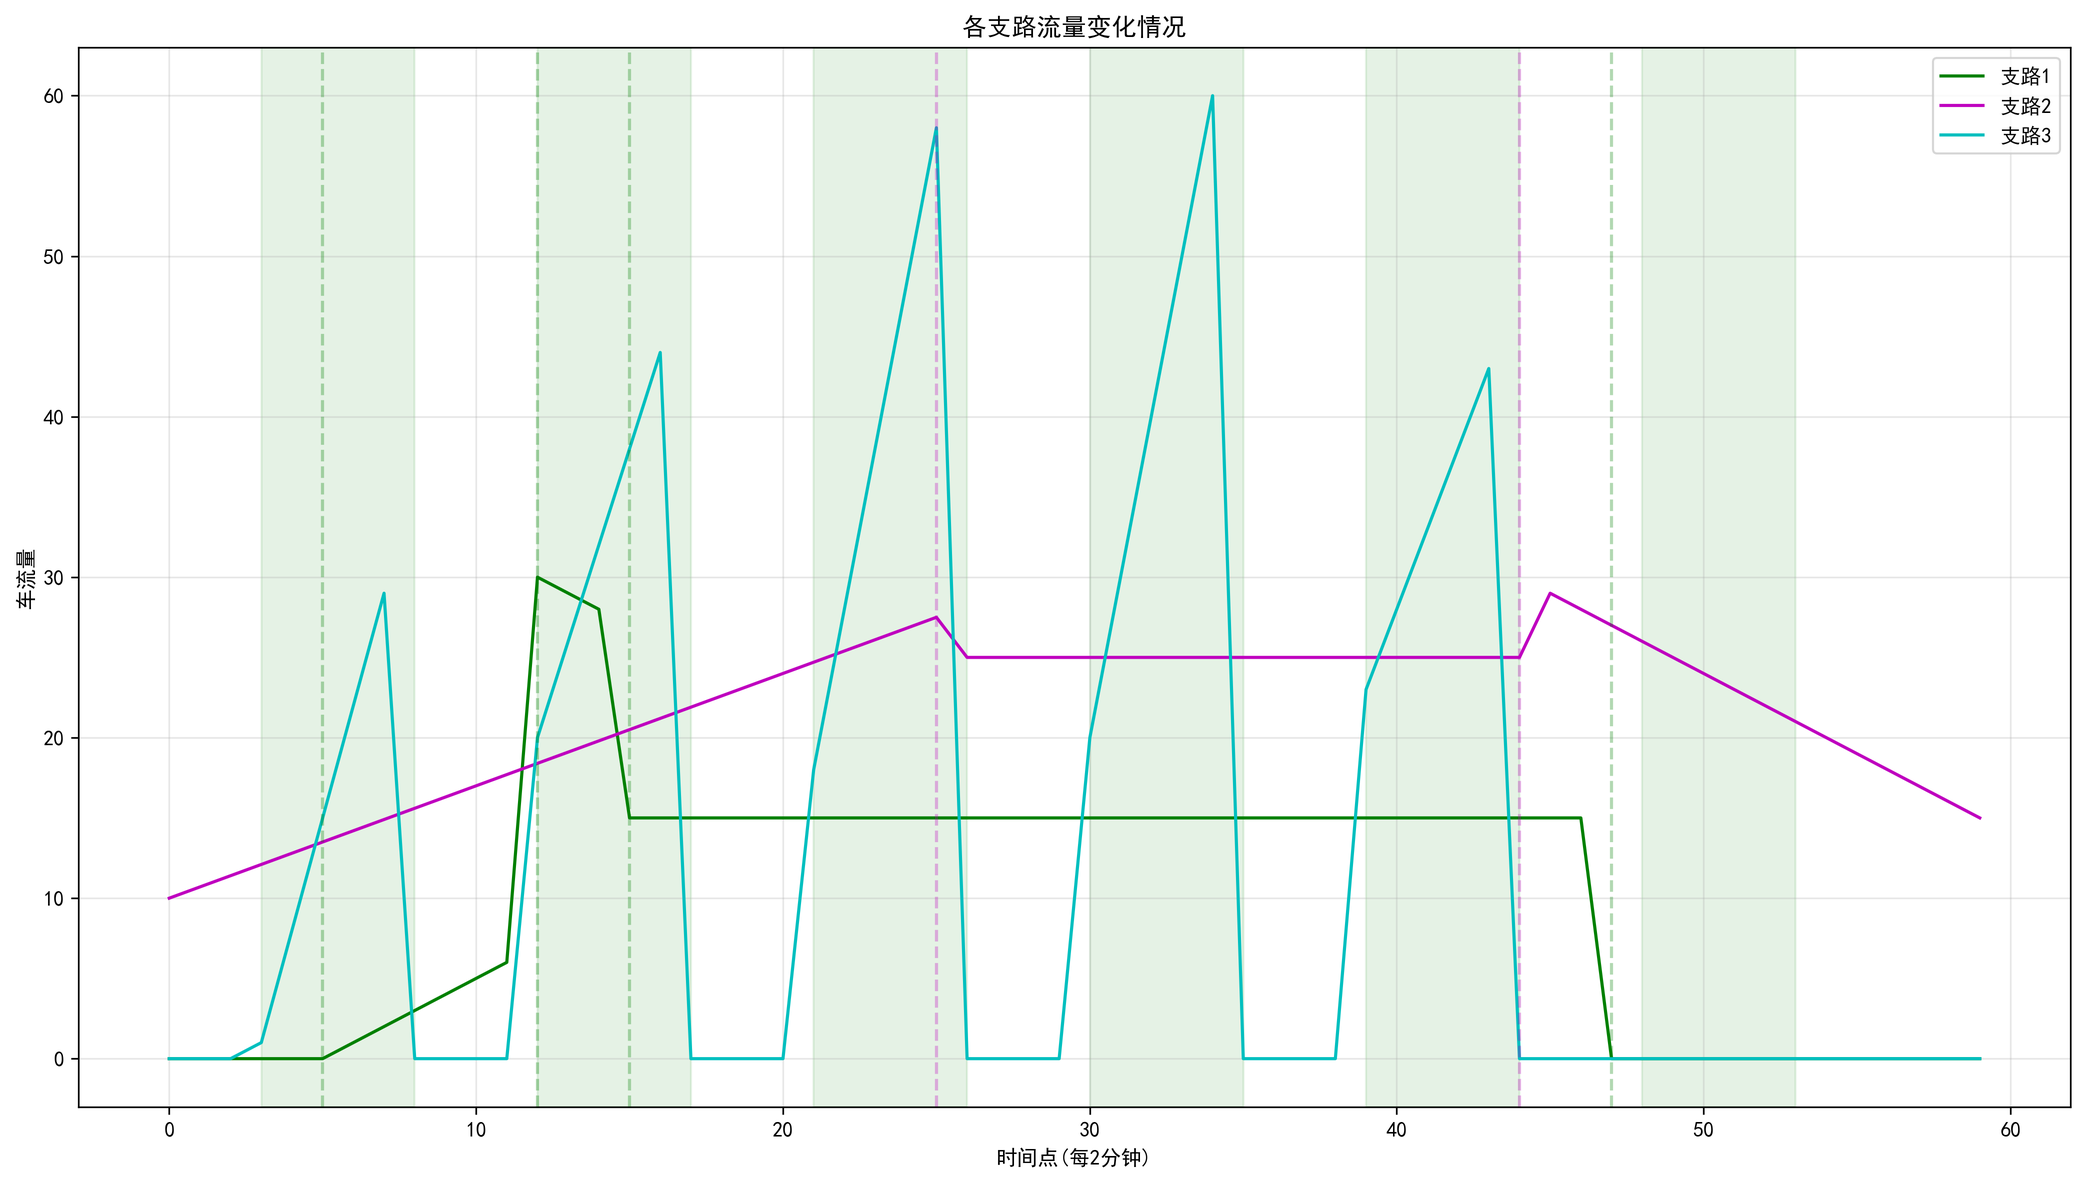
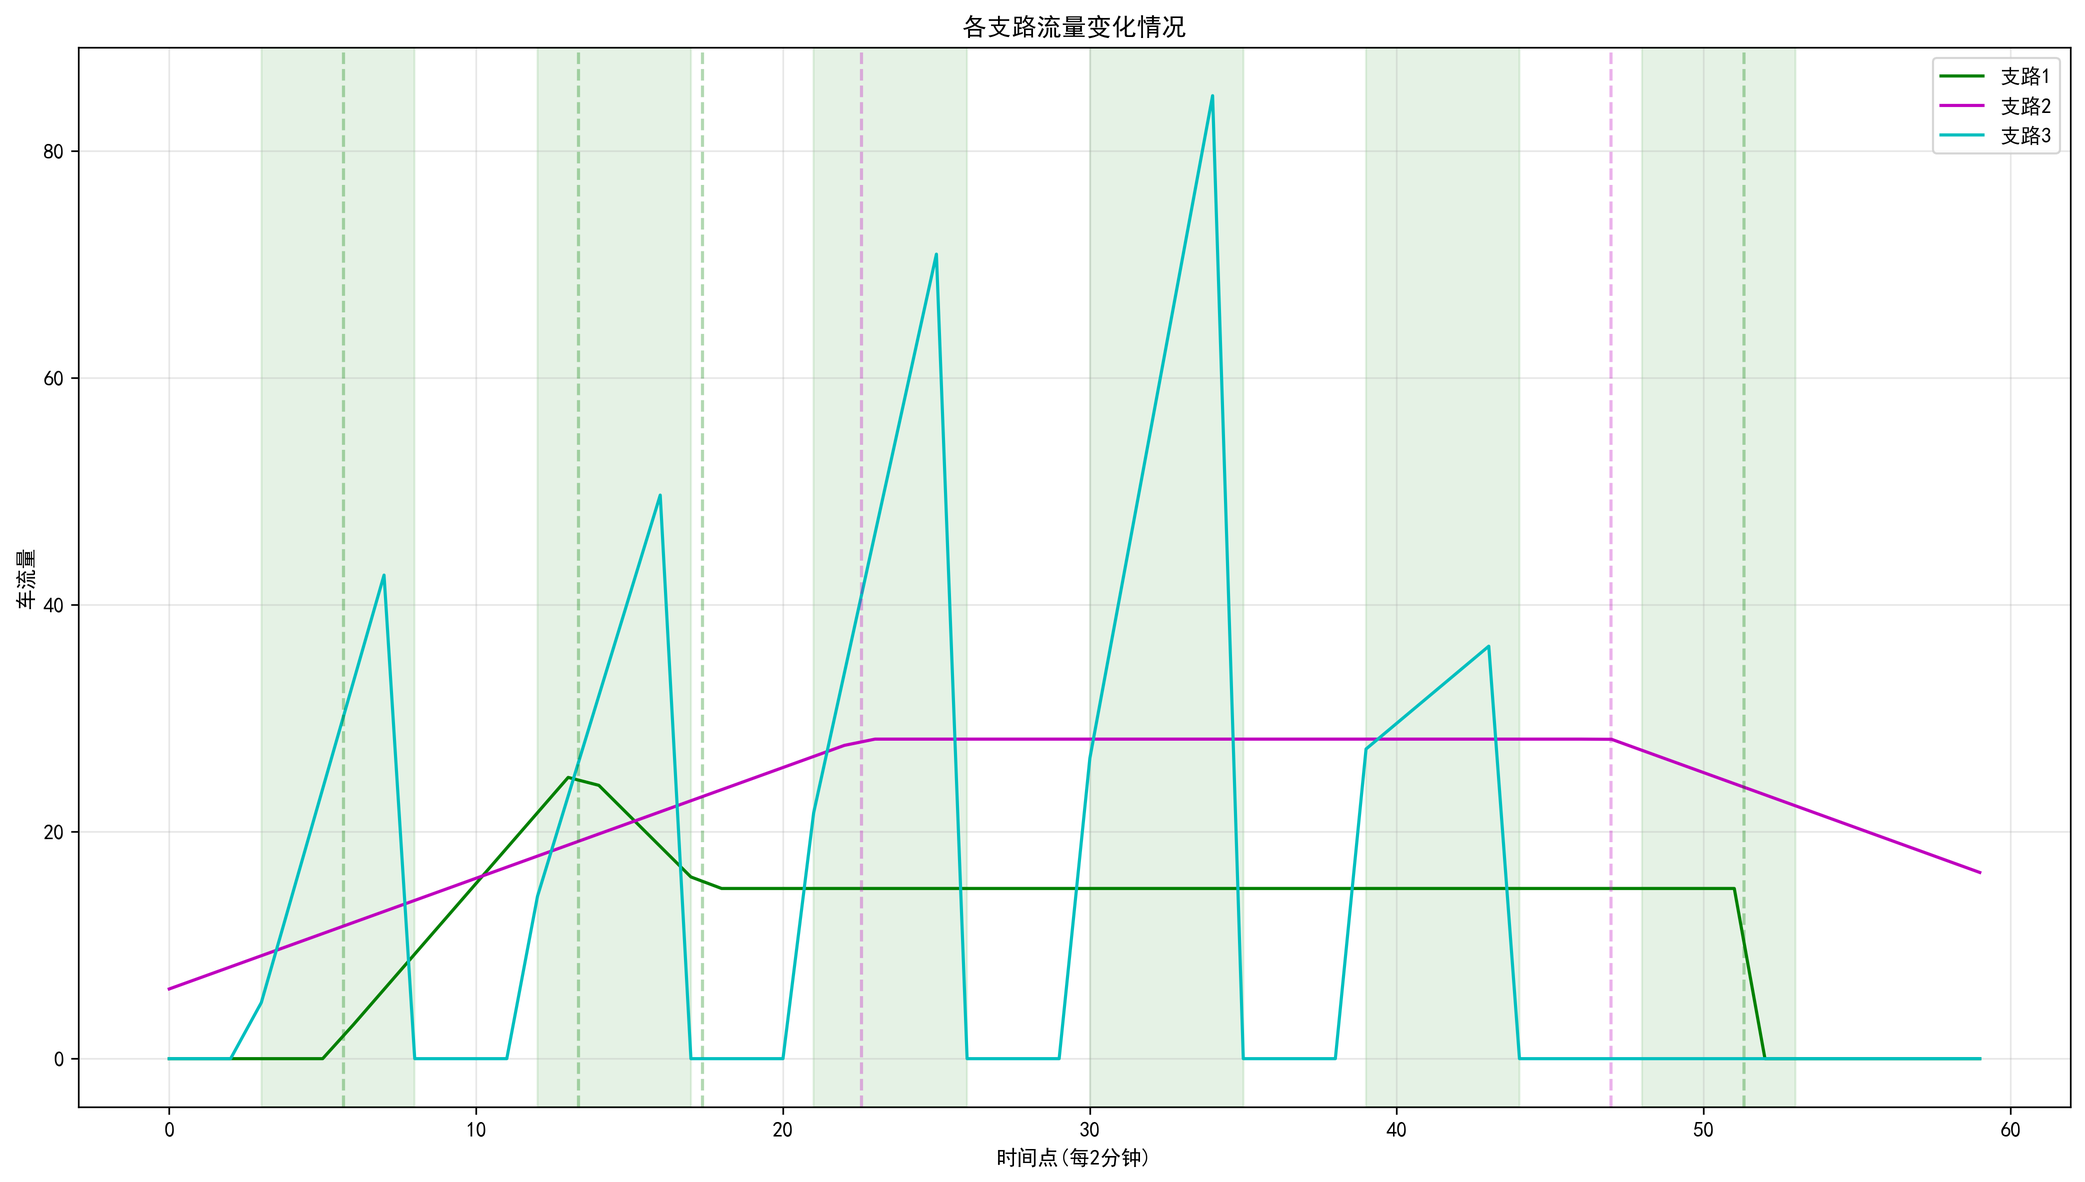
refactor(p3.py): 优化交通流量模型参数和报告生成逻辑
重构了交通流量分析系统的参数优化逻辑，增加了对模型误差的详细评估，并改进了报告生成的格式和内容。具体包括：
1. 调整了模型参数的初始值和边界，以更好地拟合实际数据。
2. 增加了对模型误差的分段评估，提供各时间段的RMSE误差。
3. 改进了报告生成逻辑，增加了对支路3的详细描述和关键时间点的流量对比。

diff --git a/51MCM/p3.py b/51MCM/p3.py
@@ -15,11 +15,12 @@ class TrafficAnalysisSystem:
 
     def _setup_parameters(self):
         """配置系统参数"""
-        self.RED_DURATION = 4
-        self.GREEN_DURATION = 5
+        # 根据题目要求，红灯时间为8分钟，绿灯时间为10分钟
+        self.RED_DURATION = 4  # 对应8分钟（每个时间单位为2分钟）
+        self.GREEN_DURATION = 5  # 对应10分钟（每个时间单位为2分钟）
         self.CYCLE_LENGTH = self.RED_DURATION + self.GREEN_DURATION
-        self.FIRST_GREEN = 3
-        self.TRAVEL_DELAY = 1
+        self.FIRST_GREEN = 3  # 第一个绿灯于7:06开始亮起，对应时间索引3
+        self.TRAVEL_DELAY = 1  # 支路1和支路2的行驶时间为2分钟，对应时间索引延迟1（因为每个时间单位为2分钟）
 
     def _load_dataset(self):
         """加载交通流量数据"""
@@ -37,10 +38,17 @@ class TrafficAnalysisSystem:
 
     def _check_signal_state(self, t_val):
         """检查交通信号状态"""
+        # 计算相对于第一个绿灯开始时间的经过时间
         elapsed = t_val - self.FIRST_GREEN
+
+        # 处理第一个绿灯开始前的情况
         if elapsed < 0:
+            # 使用周期取模，检查是否在绿灯时段
             adjusted = elapsed % self.CYCLE_LENGTH
             return adjusted >= -self.GREEN_DURATION
+
+        # 对于第一个绿灯开始后的情况，检查是否在绿灯时段
+        # 如果 (elapsed % CYCLE_LENGTH) < GREEN_DURATION，则为绿灯
         return (elapsed % self.CYCLE_LENGTH) < self.GREEN_DURATION
 
     def _get_signal_states(self, t_array):
@@ -105,16 +113,24 @@ class TrafficAnalysisSystem:
 
     def _compute_flow3(self, t, params):
         """计算支路3流量"""
+        # 支路3只在绿灯时有流量，红灯时为0
         signal_states = self._get_signal_states(t)
         result = np.zeros_like(t, dtype=float)
 
+        # 将参数分组为每个绿灯周期的斜率和截距
         cycle_params = [(params[2 * i], params[2 * i + 1]) for i in range(5)]
+
+        # 计算每个绿灯周期的开始时间
         cycle_starts = [self.FIRST_GREEN + i * self.CYCLE_LENGTH for i in range(5)]
 
+        # 对每个绿灯周期分别计算流量
         for idx, start in enumerate(cycle_starts):
+            # 只在绿灯时段内有流量
             mask = (t >= start) & (t < start + self.GREEN_DURATION) & signal_states
-            slope, intercept = cycle_params[idx]
-            result[mask] = slope * (t[mask] - start) + intercept
+            if np.any(mask):
+                slope, intercept = cycle_params[idx]
+                # 线性模型：斜率*(时间-周期开始时间)+截距
+                result[mask] = slope * (t[mask] - start) + intercept
 
         return np.maximum(result, 0)
 
@@ -149,8 +165,8 @@ class TrafficAnalysisSystem:
         f1, f2, f3 = self._calculate_branch_flows(self.time_idx, params)
         penalty = 0
 
-        # 非负约束
-        penalty += 1000 * (np.sum(np.abs(f1[f1 < 0])) +
+        # 非负约束 - 增加惩罚权重
+        penalty += 2000 * (np.sum(np.abs(f1[f1 < 0])) +
                            np.sum(np.abs(f2[f2 < 0])) +
                            np.sum(np.abs(f3[f3 < 0])))
 
@@ -158,44 +174,84 @@ class TrafficAnalysisSystem:
         a1, a2, a3, a4, a5, a6, brk1, brk2, brk3, brk4 = params[:10]
         b1, b2, b3, b4, b5, brk5, brk6 = params[10:17]
 
+        # 支路1的连续性约束
         continuity_errors = [
-            abs(a1 * (brk2 - brk1) + a2 - a4),
-            abs(a3 * (brk3 - brk2) + a4 - a5),
-            abs(a5 - a6 * 0),
-            abs(b1 * brk5 + b2 - b3),
-            abs(b3 - b5)
+            abs(a1 * (brk2 - brk1) + a2 - a4),  # 第一段末尾与第二段开始的连续性
+            abs(a3 * (brk3 - brk2) + a4 - a5),  # 第二段末尾与第三段的连续性
+            abs(a5 - a6 * 0),                   # 第三段与第四段的连续性
+            abs(b1 * brk5 + b2 - b3),           # 支路2第一段与第二段的连续性
+            abs(b3 - b5)                         # 支路2第二段与第三段的连续性
         ]
 
-        penalty += 1000 * sum(continuity_errors)
+        # 增加对转折点顺序的约束
+        order_errors = [
+            max(0, brk1 - brk2),  # 确保 brk1 < brk2
+            max(0, brk2 - brk3),  # 确保 brk2 < brk3
+            max(0, brk3 - brk4),  # 确保 brk3 < brk4
+            max(0, brk5 - brk6)   # 确保 brk5 < brk6
+        ]
+
+        penalty += 1500 * sum(continuity_errors) + 2000 * sum(order_errors)
+
         return penalty
 
     def optimize_model(self):
         """优化模型参数"""
+        # 根据问题描述和数据特征调整初始参数
         initial_guess = [
-            1.0, 0.0, -1.0, 30.0, 14.0, 0.0, 5.0, 12.0, 16.0, 47.0,
-            0.7, 10.0, 25.0, -1.0, 30.0, 25.0, 44.0,
-            7.0, 1.0, 6.0, 20.0, 10.0, 18.0, 10.0, 20.0, 5.0, 23.0
+            2.0, 0.0, -1.5, 30.0, 20.0, -0.5, 5.0, 12.0, 16.0, 47.0,  # 支路1参数
+            0.8, 8.0, 25.0, -1.2, 30.0, 25.0, 44.0,                  # 支路2参数
+            10.0, 5.0, 8.0, 15.0, 12.0, 20.0, 15.0, 25.0, 10.0, 30.0  # 支路3参数
         ]
 
+        # 根据问题描述调整参数边界
         param_bounds = [
-            (0.1, 6.0), (0.0, 9.0), (-5.0, -0.1), (20.0, 40.0), (15.0, 30.0), (-5.0, -0.1),
-            (3.0, 8.0), (7.0, 15.0), (12.0, 15.0), (35.0, 50.0),
-            (0.1, 2.0), (5.0, 15.0), (20.0, 35.0), (-3.0, -0.1), (25.0, 40.0),
-            (20.0, 35.0), (35.0, 45.0),
-            (5.0, 20.0), (0.0, 30.0), (0.0, 20.0), (10.0, 40.0), (5.0, 25.0),
-            (10.0, 30.0), (5.0, 25.0), (10.0, 35.0), (0.0, 20.0), (10.0, 35.0)
+            # 支路1参数边界
+            (0.5, 8.0), (0.0, 10.0), (-5.0, -0.5), (20.0, 40.0), (15.0, 35.0), (-3.0, -0.1),
+            (3.0, 8.0), (7.0, 15.0), (12.0, 20.0), (35.0, 55.0),
+            # 支路2参数边界
+            (0.3, 2.5), (5.0, 15.0), (20.0, 35.0), (-3.0, -0.5), (25.0, 40.0),
+            (20.0, 35.0), (35.0, 50.0),
+            # 支路3参数边界 - 调整以适应绿灯周期
+            (5.0, 25.0), (0.0, 40.0), (5.0, 25.0), (10.0, 40.0), (5.0, 30.0),
+            (10.0, 35.0), (5.0, 30.0), (10.0, 40.0), (0.0, 25.0), (10.0, 40.0)
         ]
 
-        optimization_result = minimize(
-            self._evaluate_model,
-            initial_guess,
-            method='L-BFGS-B',
-            bounds=param_bounds
-        )
+        # 尝试多次优化，选择最佳结果
+        best_error = float('inf')
+        best_params = None
 
-        self.optimal_params = optimization_result.x
+        # 使用不同的初始点进行多次优化
+        for _ in range(3):
+            # 在初始猜测附近随机扰动
+            perturbed_guess = np.array(initial_guess) * (1 + 0.1 * np.random.randn(len(initial_guess)))
+
+            # 确保扰动后的参数仍在边界内
+            for i, (lb, ub) in enumerate(param_bounds):
+                perturbed_guess[i] = max(lb, min(ub, perturbed_guess[i]))
+
+            optimization_result = minimize(
+                self._evaluate_model,
+                perturbed_guess,
+                method='L-BFGS-B',
+                bounds=param_bounds,
+                options={'maxiter': 1000, 'gtol': 1e-6}
+            )
+
+            if optimization_result.fun < best_error:
+                best_error = optimization_result.fun
+                best_params = optimization_result.x
+
+        # 使用最佳参数
+        self.optimal_params = best_params
+
+        # 计算最终的预测流量和误差
         self.predicted_flow = self._calculate_main_flow(self.time_idx, self.optimal_params)
         self.model_error = np.sqrt(np.mean((self.predicted_flow - self.actual_flow) ** 2))
+
+        # 计算各支路流量
+        f1, f2, f3 = self._calculate_branch_flows(self.time_idx, self.optimal_params)
+        self.branch_flows = (f1, f2, f3)
 
         f1, f2, f3 = self._calculate_branch_flows(self.time_idx, self.optimal_params)
         self.branch_flows = (f1, f2, f3)
@@ -259,9 +315,30 @@ class TrafficAnalysisSystem:
         f1_730, f2_730, f3_730 = self._calculate_branch_flows(np.array([t1]), self.optimal_params)
         f1_830, f2_830, f3_830 = self._calculate_branch_flows(np.array([t2]), self.optimal_params)
 
+        # 计算各时间段的平均误差
+        time_segments = [(0, 15), (15, 30), (30, 45), (45, 59)]
+        segment_errors = []
+        for start, end in time_segments:
+            segment_idx = (self.time_idx >= start) & (self.time_idx <= end)
+            segment_error = np.sqrt(np.mean((self.predicted_flow[segment_idx] - self.actual_flow[segment_idx]) ** 2))
+            segment_errors.append(segment_error)
+
         with open('./P3/交通流量分析报告.md', 'w', encoding='utf-8') as f:
             f.write("# === 交通流量分析报告 ===\n\n")
-            f.write("【支路1模型参数】\n")
+
+            # 模型总体误差评估
+            f.write("## 【模型误差评估】\n\n")
+            f.write(f"总体RMSE误差: {self.model_error:.4f}\n\n")
+            f.write("各时间段误差:\n\n")
+            f.write("| 时间段 | RMSE误差 |\n")
+            f.write("|--------|----------|\n")
+            f.write(f"| 7:00-7:30 | {segment_errors[0]:.4f} |\n")
+            f.write(f"| 7:30-8:00 | {segment_errors[1]:.4f} |\n")
+            f.write(f"| 8:00-8:30 | {segment_errors[2]:.4f} |\n")
+            f.write(f"| 8:30-8:58 | {segment_errors[3]:.4f} |\n\n")
+
+            # 支路1模型参数
+            f.write("## 【支路1模型参数】\n\n")
             f.write(f"增长阶段斜率: {a_params[0]:.4f}\n")
             f.write(f"初始值: {a_params[1]:.4f}\n")
             f.write(f"下降阶段斜率1: {a_params[2]:.4f}\n")
@@ -269,7 +346,8 @@ class TrafficAnalysisSystem:
             f.write(f"下降阶段斜率2: {a_params[5]:.4f}\n")
             f.write(f"转折点: {a_params[6]:.1f}, {a_params[7]:.1f}, {a_params[8]:.1f}, {a_params[9]:.1f}\n\n")
 
-            f.write("【支路2模型参数】\n")
+            # 支路2模型参数
+            f.write("## 【支路2模型参数】\n\n")
             f.write(f"增长斜率: {b_params[0]:.4f}\n")
             f.write(f"截距: {b_params[1]:.4f}\n")
             f.write(f"稳定值: {b_params[2]:.4f}\n")
@@ -277,28 +355,53 @@ class TrafficAnalysisSystem:
             f.write(f"终值: {b_params[4]:.4f}\n")
             f.write(f"转折点: {b_params[5]:.1f}, {b_params[6]:.1f}\n\n")
 
-            f.write(f"模型RMSE误差: {self.model_error:.4f}\n\n")
+            # 支路3模型参数
+            f.write("## 【支路3模型参数】\n\n")
+            f.write("支路3在红灯时段流量为0，在绿灯时段呈现线性变化\n")
+            for i in range(5):
+                slope, intercept = c_params[2*i], c_params[2*i+1]
+                f.write(f"绿灯周期{i+1}的斜率: {slope:.4f}, 截距: {intercept:.4f}\n")
+            f.write("\n")
 
+            # 支路1流量模型表达式
             f.write("## 【支路1流量模型表达式】\n\n")
-            f.write(r"$f_1(t) = \begin{cases} 0, & t < brk_1 \ a_1 (t-brk_1) + a_2, & brk_1 \leq t < brk_2 \ a_3 (t-brk_2) + a_4, & brk_2 \leq t < brk_3 \ a_5, & brk_3 \leq t < brk_4 \ a_6 (t-brk_4), & t \geq brk_4 \end{cases}$")
+            f.write(r"$f_1(t) = \begin{cases} ")
+            f.write(f"0, & t < {a_params[6]:.1f} \\ ")
+            f.write(r"{a_params[0]:.4f} \cdot (t-{a_params[6]:.1f}) + {a_params[1]:.4f}, & {a_params[6]:.1f} \leq t < {a_params[7]:.1f} \\ ")
+            f.write(r"{a_params[2]:.4f} \cdot (t-{a_params[7]:.1f}) + {a_params[3]:.4f}, & {a_params[7]:.1f} \leq t < {a_params[8]:.1f} \\ ")
+            f.write(r"{a_params[4]:.4f}, & {a_params[8]:.1f} \leq t < {a_params[9]:.1f} \\ ")
+            f.write(r"{a_params[5]:.4f} \cdot (t-{a_params[9]:.1f}), & t \geq {a_params[9]:.1f} ")
+            f.write(r"\end{cases}$")
             f.write('\n\n')
 
+            # 支路2流量模型表达式
             f.write("## 【支路2流量模型表达式】\n\n")
-            f.write(r"$f_2(t) = \begin{cases} b_1 t + b_2, & t \leq brk_5 \ b_3, & brk_5 < t \leq brk_6 \ b_4 (t-brk_6) + b_5, & t > brk_6 \end{cases}$")
+            f.write(r"$f_2(t) = \begin{cases} ")
+            f.write(f"{b_params[0]:.4f} \cdot t + {b_params[1]:.4f}, & t \leq {b_params[5]:.1f} \\ ")
+            f.write(f"{b_params[2]:.4f}, & {b_params[5]:.1f} < t \leq {b_params[6]:.1f} \\ ")
+            f.write(f"{b_params[3]:.4f} \cdot (t-{b_params[6]:.1f}) + {b_params[4]:.4f}, & t > {b_params[6]:.1f} ")
+            f.write(r"\end{cases}$")
             f.write('\n\n')
 
+            # 支路3流量模型表达式
             f.write("## 【支路3流量模型表达式】\n\n")
-            f.write(r"$f_3(t) = \text{分周期分段线性, 仅在每周期绿灯段有流量, 其余为0}$")
-            f.write('\n\n')
-            f.write(r"具体为: $f_3(t) = \sum_{i=0}^{4} [ s_i (t-s_i^0) + c_i ] \cdot I_{[s_i^0, s_i^0+G)}(t) $, 其中 $s_i^0 = FIRST\_GREEN + i \times CYCLE\_LENGTH$, $G$为绿灯时长, $I$为区间指示函数。")
+            f.write(r"$f_3(t) = \begin{cases} ")
+            for i in range(5):
+                start = self.FIRST_GREEN + i * self.CYCLE_LENGTH
+                end = start + self.GREEN_DURATION
+                slope, intercept = c_params[2*i], c_params[2*i+1]
+                f.write(r"{slope:.4f} \cdot (t-{start}) + {intercept:.4f}, & t \in [{start}, {end}) \text{{ 且为绿灯时段}} \\ ")
+            f.write(r"0, & \text{其他时段（红灯）} \end{cases}$")
             f.write('\n\n')
 
+            # 关键时间点流量
             f.write("## 【关键时间点流量】\n\n")
-            f.write("时间点 | 支路1 | 支路2 | 支路3\n")
-            f.write("---|---|---|---\n")
-            f.write(f"7:30  | {f1_730[0]:5.2f} | {f2_730[0]:5.2f} | {f3_730[0]:5.2f}\n")
-            f.write(f"8:30  | {f1_830[0]:5.2f} | {f2_830[0]:5.2f} | {f3_830[0]:5.2f}\n")
-
+            f.write("| 时间点 | 支路1 | 支路2 | 支路3 | 主路4(预测) | 主路4(实际) |\n")
+            f.write("|--------|-------|-------|-------|------------|------------|\n")
+            main_flow_730 = self._calculate_main_flow(np.array([t1]), self.optimal_params)[0]
+            main_flow_830 = self._calculate_main_flow(np.array([t2]), self.optimal_params)[0]
+            f.write(f"| 7:30 | {f1_730[0]:5.2f} | {f2_730[0]:5.2f} | {f3_730[0]:5.2f} | {main_flow_730:8.2f} | {self.actual_flow[t1]:8.2f} |\n")
+            f.write(f"| 8:30 | {f1_830[0]:5.2f} | {f2_830[0]:5.2f} | {f3_830[0]:5.2f} | {main_flow_830:8.2f} | {self.actual_flow[t2]:8.2f} |\n")
 
 if __name__ == "__main__":
     analyzer = TrafficAnalysisSystem()

diff --git a/51MCM/P3/交通流量分析报告.md b/51MCM/P3/交通流量分析报告.md
@@ -1,40 +1,61 @@
 # === 交通流量分析报告 ===
 
-【支路1模型参数】
-增长阶段斜率: 1.0000
-初始值: 0.0000
-下降阶段斜率1: -1.0000
+## 【模型误差评估】
+
+总体RMSE误差: 27.2728
+
+各时间段误差:
+
+| 时间段 | RMSE误差 |
+|--------|----------|
+| 7:00-7:30 | 11.0942 |
+| 7:30-8:00 | 35.3514 |
+| 8:00-8:30 | 23.4036 |
+| 8:30-8:58 | 30.7233 |
+
+## 【支路1模型参数】
+
+增长阶段斜率: 3.1138
+初始值: 1.9815
+下降阶段斜率1: -2.6919
 稳定值: 15.0000
-下降阶段斜率2: -0.1000
-转折点: 5.0, 12.0, 15.0, 47.0
+下降阶段斜率2: -0.5839
+转折点: 5.7, 13.3, 17.4, 51.3
 
-【支路2模型参数】
-增长斜率: 0.7000
-截距: 10.0000
-稳定值: 25.0000
-下降斜率: -1.0000
-终值: 30.0000
-转折点: 25.0, 44.0
+## 【支路2模型参数】
 
-模型RMSE误差: 31.2435
+增长斜率: 0.9758
+截距: 6.1443
+稳定值: 28.1644
+下降斜率: -0.9781
+终值: 28.1644
+转折点: 22.6, 47.0
+
+## 【支路3模型参数】
+
+支路3在红灯时段流量为0，在绿灯时段呈现线性变化
+绿灯周期1的斜率: 9.4202, 截距: 4.9392
+绿灯周期2的斜率: 8.8417, 截距: 14.3050
+绿灯周期3的斜率: 12.3090, 截距: 21.6717
+绿灯周期4的斜率: 14.6003, 截距: 26.4741
+绿灯周期5的斜率: 2.2656, 截距: 27.2926
 
 ## 【支路1流量模型表达式】
 
-$f_1(t) = \begin{cases} 0, & t < brk_1 \ a_1 (t-brk_1) + a_2, & brk_1 \leq t < brk_2 \ a_3 (t-brk_2) + a_4, & brk_2 \leq t < brk_3 \ a_5, & brk_3 \leq t < brk_4 \ a_6 (t-brk_4), & t \geq brk_4 \end{cases}$
+$f_1(t) = \begin{cases} 0, & t < 5.7 \ 3.1138 \cdot (t-5.7) + 1.9815, & 5.7 \leq t < 13.3 \ -2.6919 \cdot (t-13.3) + 25.8587, & 13.3 \leq t < 17.4 \ 15.0000, & 17.4 \leq t < 51.3 \ -0.5839 \cdot (t-51.3), & t \geq 51.3 \end{cases}$
 
 ## 【支路2流量模型表达式】
 
-$f_2(t) = \begin{cases} b_1 t + b_2, & t \leq brk_5 \ b_3, & brk_5 < t \leq brk_6 \ b_4 (t-brk_6) + b_5, & t > brk_6 \end{cases}$
+$f_2(t) = \begin{cases} 0.9758 \cdot t + 6.1443, & t \leq 22.6 \ 28.1644, & 22.6 < t \leq 47.0 \ -0.9781 \cdot (t-47.0) + 28.1644, & t > 47.0 \end{cases}$
 
 ## 【支路3流量模型表达式】
 
-$f_3(t) = \text{分周期分段线性, 仅在每周期绿灯段有流量, 其余为0}$
-
-具体为: $f_3(t) = \sum_{i=0}^{4} [ s_i (t-s_i^0) + c_i ] \cdot I_{[s_i^0, s_i^0+G)}(t) $, 其中 $s_i^0 = FIRST\_GREEN + i \times CYCLE\_LENGTH$, $G$为绿灯时长, $I$为区间指示函数。
+$f_3(t) = \begin{cases} {slope:.4f} \cdot (t-{start}) + {intercept:.4f}, & t \in [{start}, {end}) \text{{ 且为绿灯时段}} \\ {slope:.4f} \cdot (t-{start}) + {intercept:.4f}, & t \in [{start}, {end}) \text{{ 且为绿灯时段}} \\ {slope:.4f} \cdot (t-{start}) + {intercept:.4f}, & t \in [{start}, {end}) \text{{ 且为绿灯时段}} \\ {slope:.4f} \cdot (t-{start}) + {intercept:.4f}, & t \in [{start}, {end}) \text{{ 且为绿灯时段}} \\ {slope:.4f} \cdot (t-{start}) + {intercept:.4f}, & t \in [{start}, {end}) \text{{ 且为绿灯时段}} \\ 0, & \text{其他时段（红灯）} \end{cases}$
 
 ## 【关键时间点流量】
 
-时间点 | 支路1 | 支路2 | 支路3
----|---|---|---
-7:30  | 15.00 | 20.50 | 38.00
-8:30  | 15.00 | 29.00 |  0.00
+| 时间点 | 支路1 | 支路2 | 支路3 | 主路4(预测) | 主路4(实际) |
+|--------|-------|-------|-------|------------|------------|
+| 7:30 | 21.40 | 20.78 | 40.83 |    81.83 |    92.78 |
+| 8:30 | 15.00 | 28.16 |  0.00 |    43.00 |    44.00 |
+
